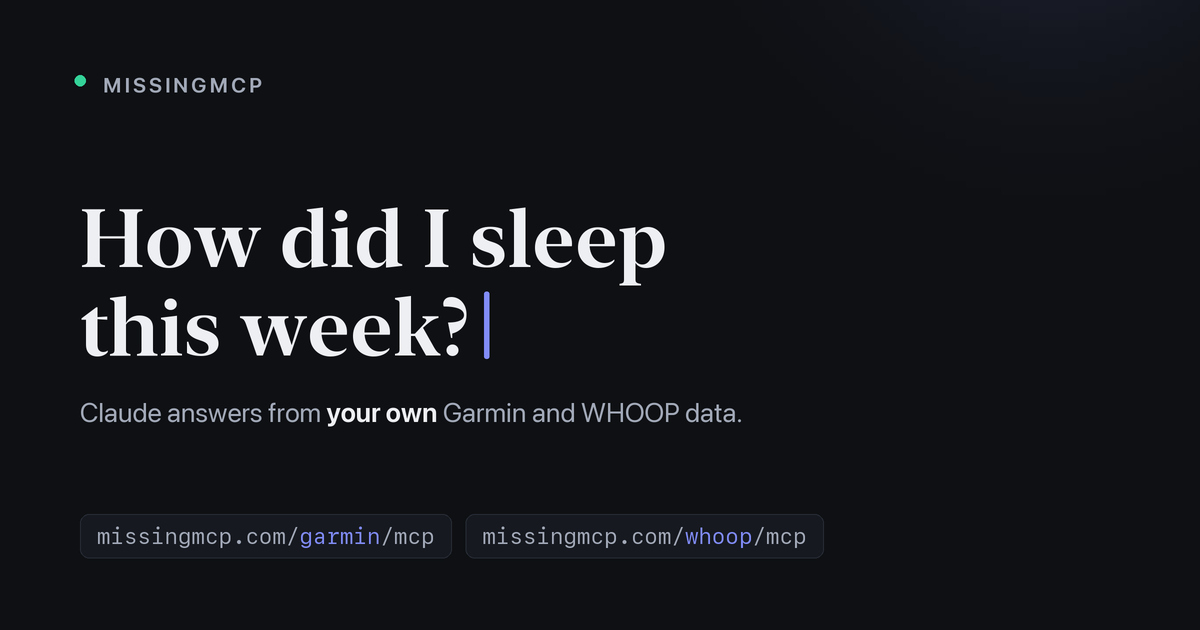
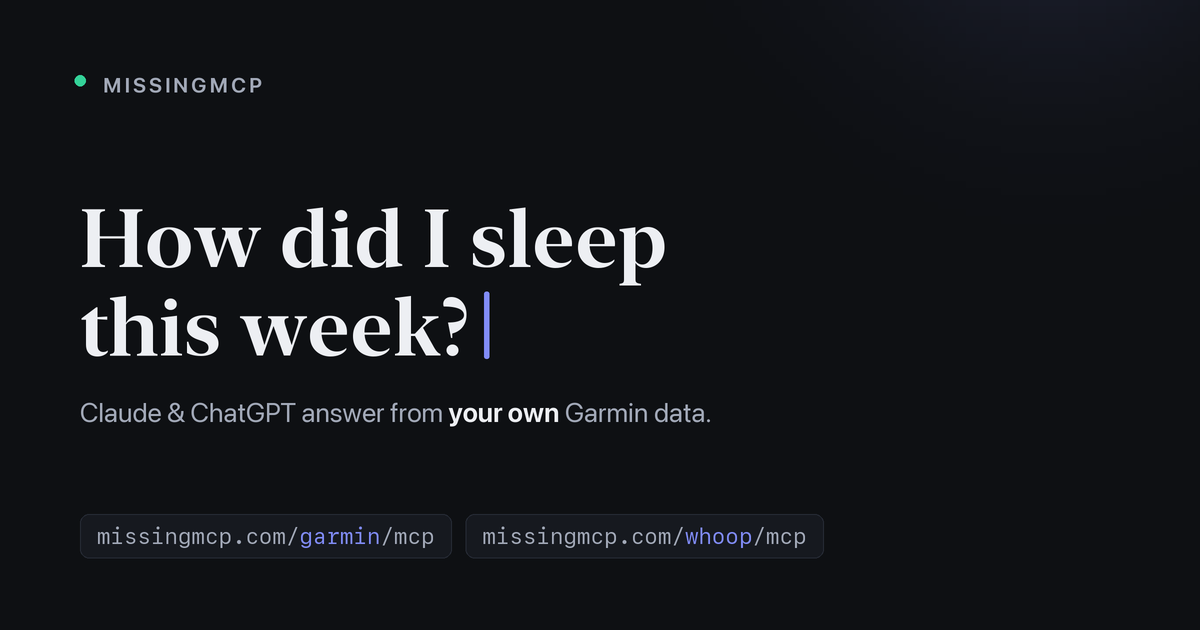
feat(pages): ChatGPT connect guide + multi-client home copy
New /garmin/chatgpt page: step-by-step for ChatGPT's developer-mode custom
connectors (web-only beta caveat included), same /garmin/mcp endpoint,
HowTo JSON-LD, usage meter in the hero, cross-linked with /garmin. Home
page copy broadens from Claude-only to Claude & ChatGPT & any MCP client
(hero, steps, security, final CTA); sitemap + llms.txt list the guide;
og.png redrawn with the multi-client line (its ?v= hash busts scraper
caches on its own).

OpenAI clients already account for ~38 users/month with zero copy support
— the guide targets the 'connect garmin to chatgpt' query family.

Changed region(s): [[0.1233, 0.6333, 0.6167, 0.6937]]

diff --git a/src/missingmcp/templates/garmin_chatgpt.html b/src/missingmcp/templates/garmin_chatgpt.html
@@ -1,0 +1,95 @@
+<!-- Client-specific connect guide — targets the "connect garmin to chatgpt"
+     query family. The connector itself is the same /garmin/mcp endpoint the
+     Claude landing documents; this page owns the ChatGPT-specific steps
+     (developer mode) and caveats. Keep the section skeleton in the family:
+     hero → what is this → how to connect → what to ask → under the hood. -->
+  <div class="page-hero">
+    <div class="wrap">
+      <span class="pill live">Live</span>{USAGE_METER_GARMIN}
+      <h1>Garmin, <span class="hl">in ChatGPT</span>.</h1>
+      <p>Everything your watch knows &mdash; training, sleep, recovery, health &mdash; in a ChatGPT conversation. Same free, hosted Garmin MCP server that powers the <a href="/garmin">Claude connector</a>; ChatGPT just needs a couple of different menu clicks to add it.</p>
+      <div class="cta-row">
+        <a class="btn" href="#connect">Connect in 2 minutes</a>
+        <span class="quiet">Server URL: <code>{PUBLIC_URL}<wbr>/garmin<wbr>/mcp</code><button class="copy" type="button" data-copy="{PUBLIC_URL}/garmin/mcp" title="Copy to clipboard" aria-label="Copy server URL"><svg viewBox="0 0 24 24" fill="none" stroke="currentColor" stroke-width="2" stroke-linecap="round" stroke-linejoin="round" aria-hidden="true"><rect x="9" y="9" width="13" height="13" rx="2"/><path d="M5 15H4a2 2 0 0 1-2-2V4a2 2 0 0 1 2-2h9a2 2 0 0 1 2 2v1"/></svg><span class="done">&#10003;</span></button></span>
+      </div>
+    </div>
+  </div>
+
+  <section id="about">
+    <div class="wrap">
+      <h2 class="sec-h">What is this?</h2>
+      <div class="prose">
+        <p>Garmin Connect collects an enormous amount of data about you &mdash; but exploring it means tapping through app screens, one metric at a time. This plugs your Garmin account straight into ChatGPT, so you can just ask: <em>&ldquo;How did I sleep this week?&rdquo;</em>, <em>&ldquo;Compare my last three long runs&rdquo;</em>, <em>&ldquo;Why is my training readiness low today?&rdquo;</em> Under the hood it&rsquo;s a hosted <strong>MCP (Model Context Protocol) server</strong> &mdash; the open standard ChatGPT, Claude, and most AI apps now speak.</p>
+        <p>All 134 tools &mdash; activities, sleep, HRV, training readiness, body composition, race predictions, even building workouts and scheduling them onto your watch &mdash; work exactly the same as in Claude. The full list lives on the <a href="/garmin#tools">Garmin connector page</a>.</p>
+      </div>
+    </div>
+  </section>
+
+  <section id="connect">
+    <div class="wrap">
+      <h2 class="sec-h">How to connect Garmin to ChatGPT</h2>
+      <div class="cards">
+        <div class="card">
+          <span class="step-n">Step 1</span>
+          <h3>Turn on developer mode</h3>
+          <p>In ChatGPT <strong>on the web</strong>: Settings &rarr; Apps &rarr; Advanced settings &rarr; toggle <strong>Developer mode</strong> on. It&rsquo;s available on Plus, Pro, Business, Enterprise, and Education plans.</p>
+        </div>
+        <div class="card">
+          <span class="step-n">Step 2</span>
+          <h3>Add the connector</h3>
+          <p>Choose <strong>Create app</strong> (custom connector), name it &ldquo;Garmin&rdquo;, and paste <code>{PUBLIC_URL}<wbr>/garmin<wbr>/mcp</code><button class="copy" type="button" data-copy="{PUBLIC_URL}/garmin/mcp" title="Copy to clipboard" aria-label="Copy server URL"><svg viewBox="0 0 24 24" fill="none" stroke="currentColor" stroke-width="2" stroke-linecap="round" stroke-linejoin="round" aria-hidden="true"><rect x="9" y="9" width="13" height="13" rx="2"/><path d="M5 15H4a2 2 0 0 1-2-2V4a2 2 0 0 1 2-2h9a2 2 0 0 1 2 2v1"/></svg><span class="done">&#10003;</span></button> as the server URL. Pick <strong>OAuth</strong> as the authentication.</p>
+        </div>
+        <div class="card">
+          <span class="step-n">Step 3</span>
+          <h3>Sign in once</h3>
+          <p>ChatGPT opens a sign-in page &mdash; enter your Garmin Connect email and password (and an MFA code if prompted). If you close the tab mid-flow, remove the app and add it again to restart cleanly.</p>
+        </div>
+        <div class="card">
+          <span class="step-n">Step 4</span>
+          <h3>Start asking</h3>
+          <p>Enable the app in a conversation and try &ldquo;How did I sleep last night?&rdquo; ChatGPT asks for confirmation before any tool that writes to your Garmin calendar.</p>
+        </div>
+      </div>
+      <div class="note">
+        <strong>Good to know:</strong> custom MCP connectors in ChatGPT are a beta feature and currently <strong>web-only</strong> &mdash; the mobile apps can&rsquo;t add them yet. OpenAI also moves these menus around occasionally; if the path above doesn&rsquo;t match, look for <em>Apps</em>, <em>Connectors</em>, or <em>Developer mode</em> in Settings.
+      </div>
+      <div class="note warn">
+        <strong>Before you sign in:</strong> your Garmin password is used once and <strong>never stored</strong> &mdash; only encrypted session tokens (AES-256-GCM) are kept so the gateway can reach your data. Your health data passes through on demand and is not stored. Only use this gateway if you trust the operator: this instance is run by <strong>{OPERATOR}{OPERATOR_EMAIL}</strong>. Details in <a href="/#security">Security &amp; trust</a>.
+      </div>
+      <p class="beer"><span>Free to use &mdash; if it earns a spot in your routine, <a href="https://buymeacoffee.com/venik" target="_blank" rel="noopener noreferrer">buy me a beer</a> to keep it running.</span></p>
+    </div>
+  </section>
+
+  <section id="tips">
+    <div class="wrap">
+      <h2 class="sec-h">What to ask</h2>
+      <p class="lede">Prompts that show what ChatGPT can do with your real Garmin data.</p>
+      <div class="cards">
+        <div class="card">
+          <span class="step-n">Prompt</span>
+          <h3>Weekly review</h3>
+          <p>&ldquo;Summarize my training week: volume, intensity, sleep quality, and how my body handled the load. What should I change next week?&rdquo;</p>
+        </div>
+        <div class="card">
+          <span class="step-n">Prompt</span>
+          <h3>Coach mode</h3>
+          <p>&ldquo;Build me a 3-run week targeting a sub-50 10k &mdash; base it on my recent training load and schedule the workouts to my watch.&rdquo;</p>
+        </div>
+        <div class="card">
+          <span class="step-n">Prompt</span>
+          <h3>Sleep detective</h3>
+          <p>&ldquo;Look at the last month: which habits correlate with my worst sleep scores &mdash; late workouts, stress peaks, anything else?&rdquo;</p>
+        </div>
+      </div>
+    </div>
+  </section>
+
+  <section id="under-the-hood">
+    <div class="wrap">
+      <h2 class="sec-h">Under the hood</h2>
+      <div class="prose">
+        <p>MCP is an open standard, and this gateway speaks it by the book &mdash; OAuth 2.1 with PKCE, dynamic client registration, Streamable HTTP. That&rsquo;s why the <em>same URL</em> works in ChatGPT, Claude, Codex, and any other MCP-capable client without any per-app setup on this side. The whole gateway is open source (<a href="https://github.com/VelkyVenik/missingmcp">GitHub</a>, MIT) and self-hostable; the Garmin smarts come from the unmodified open-source <a href="https://github.com/Taxuspt/garmin_mcp">garmin_mcp</a> server.</p>
+        <p>Prefer Claude? The <a href="/garmin">Garmin connector page</a> has the Claude steps, the full 134-tool list, and everything else about this connector.</p>
+      </div>
+    </div>
+  </section>

diff --git a/src/missingmcp/templates/home.html b/src/missingmcp/templates/home.html
@@ -1,7 +1,7 @@
   <div class="hero">
     <div class="wrap">
-      <h1>Your data, <span class="hl">in Claude</span>.</h1>
-      <p>Claude can reason about almost anything &mdash; except the numbers your apps keep locked away. MissingMCP hands it your real data, starting with Garmin, so you can just ask: <em>&ldquo;Did I eat enough for today&rsquo;s ride?&rdquo;</em> &mdash; and get an answer that actually knows.</p>
+      <h1>Your data, <span class="hl">in Claude &amp; ChatGPT</span>.</h1>
+      <p>Your AI can reason about almost anything &mdash; except the numbers your apps keep locked away. MissingMCP hands Claude, ChatGPT, or any MCP-capable AI your real data, starting with Garmin, so you can just ask: <em>&ldquo;Did I eat enough for today&rsquo;s ride?&rdquo;</em> &mdash; and get an answer that actually knows.</p>
       <div class="cta-row">
         <a class="btn" href="/garmin">Connect Garmin &rarr;</a>
         <button class="btn-outline" type="button" data-modal="subscribe">Notify me</button>
@@ -33,8 +33,9 @@
         <span class="pill live">Live</span>{USAGE_METER_GARMIN}
         <h3>Garmin</h3>
         <p class="tagline">Your watch has the answers.</p>
-        <p>Training, sleep, recovery, health &mdash; everything Garmin Connect knows, in Claude. Ask how you slept, review yesterday&rsquo;s ride, or have Claude plan next week&rsquo;s workouts and send them to your watch.</p>
+        <p>Training, sleep, recovery, health &mdash; everything Garmin Connect knows, in your AI. Ask how you slept, review yesterday&rsquo;s ride, or have Claude plan next week&rsquo;s workouts and send them to your watch. Works in Claude, ChatGPT, and any MCP-capable app.</p>
         <a class="btn" href="/garmin">Connect Garmin &rarr;</a>
+        <a class="go" href="/garmin/chatgpt">Using ChatGPT? Step-by-step guide &rarr;</a>
       </div>
       <div class="cards">
         <div class="card">
@@ -78,8 +79,8 @@
         </div>
         <div class="card">
           <span class="step-n">Step 2</span>
-          <h3>Add it to Claude</h3>
-          <p>Settings &rarr; Connectors &rarr; Add custom connector. Paste the URL and nothing else &mdash; leave the optional <em>OAuth Client ID</em> and <em>Client Secret</em> fields empty. Works on phone, desktop, and web.</p>
+          <h3>Add it to your AI</h3>
+          <p><strong>Claude:</strong> Settings &rarr; Connectors &rarr; Add custom connector &mdash; paste the URL, leave the optional OAuth fields empty. Works on phone, desktop, and web. <strong>ChatGPT:</strong> add it as a custom connector in developer mode &mdash; <a href="/garmin/chatgpt">step-by-step guide</a>.</p>
         </div>
         <div class="card">
           <span class="step-n">Step 3</span>
@@ -89,7 +90,7 @@
         <div class="card">
           <span class="step-n">Step 4</span>
           <h3>Start asking</h3>
-          <p>Claude picks up the tools automatically. &ldquo;How did I sleep this week?&rdquo; just works.</p>
+          <p>Your AI picks up the tools automatically. &ldquo;How did I sleep this week?&rdquo; just works.</p>
         </div>
       </div>
     </div>
@@ -106,7 +107,7 @@
         </div>
         <div>
           <h3>Standard OAuth 2.1</h3>
-          <p>Claude never sees your credentials. It gets its own revocable token, over the same OAuth + PKCE flow that banks and APIs use.</p>
+          <p>Your AI app &mdash; Claude, ChatGPT, or any other &mdash; never sees your credentials. It gets its own revocable token, over the same OAuth + PKCE flow that banks and APIs use.</p>
         </div>
         <div>
           <h3>Your data passes through, nothing sticks</h3>
@@ -148,7 +149,7 @@
   <div class="final">
     <div class="wrap">
       <div class="inner">
-        <h2>Give Claude the <span class="hl">missing</span> piece.</h2>
+        <h2>Give your AI the <span class="hl">missing</span> piece.</h2>
         <p>Your first connector is two minutes away &mdash; free, open source, and no server of your own.</p>
         <a class="btn" href="#connectors">Browse connectors</a>
       </div>

diff --git a/src/missingmcp/templates/garmin.html b/src/missingmcp/templates/garmin.html
@@ -84,6 +84,7 @@
       <div class="note warn">
         <strong>Before you sign in:</strong> your Garmin password is used once and <strong>never stored</strong> &mdash; only encrypted session tokens (AES-256-GCM) are kept so the gateway can reach your data. Your health data passes through on demand and is not stored. Only use this gateway if you trust the operator: this instance is run by <strong>{OPERATOR}{OPERATOR_EMAIL}</strong>. Details in <a href="/#security">Security &amp; trust</a>.
       </div>
+      <p class="quiet">Using ChatGPT instead of Claude? Same URL, different menus &mdash; follow the <a href="/garmin/chatgpt">Connect Garmin to ChatGPT guide</a>.</p>
       <p class="beer"><span>Free to use &mdash; if it earns a spot in your routine, <a href="https://buymeacoffee.com/venik" target="_blank" rel="noopener noreferrer">buy me a beer</a> to keep it running.</span></p>
     </div>
   </section>

diff --git a/src/missingmcp/app.py b/src/missingmcp/app.py
@@ -106,19 +106,59 @@ def build_app(config: Config) -> Starlette:
                 + "</script>")
 
     home_page = _render(
-        "home.html", "MissingMCP — Your data, in Claude · Garmin MCP Server",
-        "Give Claude your Garmin and health data, then just ask — did I eat "
-        "enough for today's ride, how did I sleep this week? A hosted Garmin "
-        "MCP server: connect in two minutes. Free and open source.",
+        "home.html", "MissingMCP — Your data, in Claude & ChatGPT · Garmin MCP Server",
+        "Give Claude, ChatGPT, or any MCP-capable AI your Garmin and health "
+        "data, then just ask — did I eat enough for today's ride, how did I "
+        "sleep this week? A hosted Garmin MCP server: connect in two minutes. "
+        "Free and open source.",
         # The search description keeps both example questions; the preview line
         # gets one, because previews cut at ~125 characters.
-        social_desc="Give Claude your Garmin and WHOOP data, then just ask — "
-                    "how did I sleep this week?",
+        social_desc="Give Claude & ChatGPT your Garmin and WHOOP data, then "
+                    "just ask — how did I sleep this week?",
         extra_head=_json_ld({"@type": "WebSite", "name": "MissingMCP",
                              "url": config.public_url}))
 
     async def home(request):
         return HTMLResponse(_fill_meters(home_page))
+
+    # Client-specific connect guide: same /garmin/mcp endpoint the Claude
+    # landing documents, but ChatGPT's own menu path (developer mode) — and its
+    # own search-query family ("connect garmin to chatgpt"). Static like
+    # /privacy; garmin is the one unconditional adapter, so the route is safe
+    # to register unconditionally too.
+    garmin_chatgpt_desc = (
+        "Step-by-step: bring your Garmin data into ChatGPT with a hosted "
+        "Garmin MCP server — training, sleep, recovery, workouts. Add one URL "
+        "in developer mode, sign in, start asking. Free and open source.")
+    garmin_chatgpt_page = _render(
+        "garmin_chatgpt.html",
+        "Connect Garmin to ChatGPT — Garmin MCP Server | MissingMCP",
+        garmin_chatgpt_desc, path="/garmin/chatgpt",
+        social_desc="Your Garmin data in ChatGPT: add one URL, sign in, "
+                    "start asking.",
+        extra_head=_json_ld({
+            "@type": "HowTo",
+            "name": "Connect Garmin to ChatGPT",
+            "description": garmin_chatgpt_desc,
+            "step": [
+                {"@type": "HowToStep", "name": "Turn on developer mode",
+                 "text": "In ChatGPT on the web: Settings → Apps → Advanced "
+                         "settings → enable Developer mode."},
+                {"@type": "HowToStep", "name": "Add the connector",
+                 "text": "Create a custom connector and paste the server URL "
+                         f"{config.public_url}/garmin/mcp with OAuth "
+                         "authentication."},
+                {"@type": "HowToStep", "name": "Sign in once",
+                 "text": "Sign in with your Garmin Connect email and password; "
+                         "the password is used once and never stored."},
+                {"@type": "HowToStep", "name": "Start asking",
+                 "text": "Enable the app in a conversation and ask about your "
+                         "training, sleep, or recovery."},
+            ],
+        }))
+
+    async def garmin_chatgpt(request):
+        return HTMLResponse(_fill_meters(garmin_chatgpt_page))
 
     privacy_page = _render(
         "privacy.html", "Privacy — MissingMCP",
@@ -203,7 +243,8 @@ def build_app(config: Config) -> Starlette:
         '<?xml version="1.0" encoding="UTF-8"?>\n'
         '<urlset xmlns="http://www.sitemaps.org/schemas/sitemap/0.9">\n'
         + "".join(f"  <url><loc>{base}{path}</loc></url>\n"
-                  for path in ["/"] + [f"/{a.name}" for a in adapters.values()])
+                  for path in ["/"] + [f"/{a.name}" for a in adapters.values()]
+                  + ["/garmin/chatgpt"])
         + "</urlset>\n")
     llms_txt = (
         "# MissingMCP\n\n"
@@ -219,7 +260,10 @@ def build_app(config: Config) -> Starlette:
             for a in adapters.values())
         + "\n## How to connect\n"
         "- In Claude: Settings → Connectors → Add custom connector → paste the "
-        "MCP endpoint URL above.\n\n"
+        "MCP endpoint URL above.\n"
+        "- In ChatGPT (web): Settings → Apps → Advanced settings → enable "
+        "Developer mode → create a custom connector with the MCP endpoint URL "
+        f"above. Guide: {base}/garmin/chatgpt\n\n"
         "## Source\n"
         "- Gateway: https://github.com/VelkyVenik/missingmcp\n"
         "- Garmin worker: https://github.com/Taxuspt/garmin_mcp\n")
@@ -397,6 +441,7 @@ def build_app(config: Config) -> Starlette:
 
     routes = [
         Route("/", home, methods=["GET"]),
+        Route("/garmin/chatgpt", garmin_chatgpt, methods=["GET"]),
         Route("/privacy", privacy, methods=["GET"]),
         Route("/subscribe", subscribe, methods=["POST"]),
         Route("/suggest", suggest, methods=["POST"]),

diff --git a/tests/test_app.py b/tests/test_app.py
@@ -67,7 +67,27 @@ def test_home_page(tmp_path):
     assert "No longer missing" in r.text
     assert "https://mcp.rohlik.cz/mcp" in r.text
     assert "never stored" in r.text               # security section
+    # Multi-client copy: the home page sells Claude AND ChatGPT, and links
+    # the ChatGPT guide.
+    assert "ChatGPT" in r.text
+    assert 'href="/garmin/chatgpt"' in r.text
     assert r.headers["x-frame-options"] == "DENY"
+
+
+def test_garmin_chatgpt_guide_page(tmp_path):
+    c = _client(tmp_path)
+    r = c.get("/garmin/chatgpt")
+    assert r.status_code == 200
+    assert "Connect Garmin to ChatGPT" in r.text            # title + H2
+    assert "Developer mode" in r.text                       # the ChatGPT-specific step
+    assert "https://gw.example.com/garmin/mcp" in r.text    # same endpoint as /garmin
+    assert ('<link rel="canonical" '
+            'href="https://gw.example.com/garmin/chatgpt">') in r.text
+    assert "{USAGE_METER" not in r.text                     # meter placeholder filled
+    assert 'href="/garmin"' in r.text                       # cross-links the Claude landing
+    # ... and the crawler surface knows about the page too.
+    assert "<loc>https://gw.example.com/garmin/chatgpt</loc>" in c.get("/sitemap.xml").text
+    assert "https://gw.example.com/garmin/chatgpt" in c.get("/llms.txt").text
 
 
 def test_unknown_path_serves_home_as_404(tmp_path):

diff --git a/src/missingmcp/pages.py b/src/missingmcp/pages.py
@@ -22,9 +22,9 @@ _OG_IMAGE_VER = hashlib.sha256(
     (Path(__file__).parent / "static" / _OG_IMAGE).read_bytes()
 ).hexdigest()[:8]
 _OG_IMAGE_W, _OG_IMAGE_H = 1200, 630     # keep in sync with scripts/gen_og_image.py
-_OG_IMAGE_ALT = ("MissingMCP — Claude answers from your own Garmin and WHOOP "
+_OG_IMAGE_ALT = ("MissingMCP — Claude & ChatGPT answer from your own Garmin "
                  "data.")
-_DEFAULT_DESC = ("The connectors Claude is missing — sign in once, add a URL, "
+_DEFAULT_DESC = ("The connectors your AI is missing — sign in once, add a URL, "
                  "start asking.")
 # Social previews cut around 125 characters, while a meta description can usefully
 # run to ~155 for search. They are therefore not the same string.

diff --git a/scripts/gen_og_image.py b/scripts/gen_og_image.py
@@ -44,8 +44,8 @@ LIVE    = "#34d399"
 EYEBROW  = "MissingMCP"
 ASK      = ["How did I sleep", "this week?"]        # pre-wrapped: the break is a
                                                     # design decision, not luck
-ANSWER   = [("Claude answers from ", False), ("your own", True),
-            (" Garmin and WHOOP data.", False)]     # (text, emphasized)
+ANSWER   = [("Claude & ChatGPT answer from ", False), ("your own", True),
+            (" Garmin data.", False)]               # (text, emphasized)
 ENDPOINTS = [("missingmcp.com/", "garmin", "/mcp"),
              ("missingmcp.com/", "whoop", "/mcp")]
 
